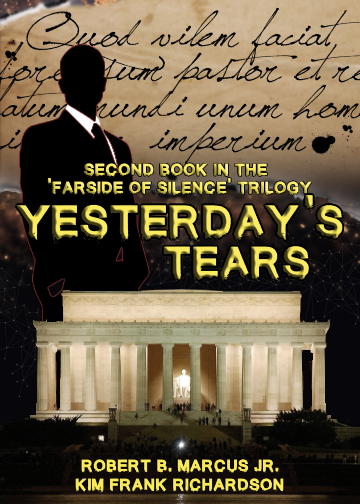
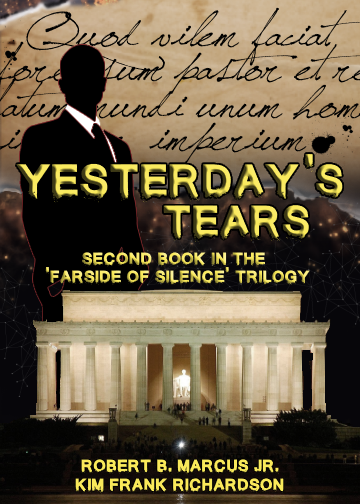
added second book

Changed region(s): [[0.0306, 0.2976, 0.9778, 0.5655]]

diff --git a/src/components/Book2.js b/src/components/Book2.js
@@ -5,20 +5,19 @@ import Typewriter from 'typewriter-effect';
 import Carousel from '@brainhubeu/react-carousel';
 import '@brainhubeu/react-carousel/lib/style.css';
 
-import cover from '../images/cover1.png'
+import cover from '../images/cover2.png'
 import amazon from '../images/amazonBtn.png'
 import barnes from '../images/barnesBtn.png'
-import card1 from '../images/card1.png'
+import card5 from '../images/card5.png'
 import card2 from '../images/card2.png'
-import card3 from '../images/card3.png'
-import card4 from '../images/card4.png'
+
 
 
 import Col from 'react-bootstrap/Col'
 import Row from 'react-bootstrap/Row'
 import Container from 'react-bootstrap/Container'
 
-function Book1() {
+function Book2() {
 
 
     return (
@@ -33,7 +32,7 @@ function Book1() {
         <Col xs={12} md={8}>
         <Typewriter
         onInit={(typewriter) => {
-            typewriter.typeString('<span class="title">THE FAR SIDE OF SILENCE</span>')
+            typewriter.typeString('<span class="title">YESTERDAYS TEARS</span>')
     
             .callFunction(() => {
                 console.log('String typed out!');
@@ -43,25 +42,19 @@ function Book1() {
             }}
     />
         <div class="redline" />
-        {/* <h1>THE FAR SIDE OF SILENCE</h1> */}
         <p>
-        When Air Force One is shot down over the Mediterranean Sea with no survivors ex-Navy Seal Alexander Gray is tasked with an impossible assignment.
+        Alexander Gray returns from Sigonella with a heavy heart. While in Sicily, he lost the love of his life and came close to losing his own. But there's no time to relax as Gray discovers that those who sought to destroy the U.S. in Sicily are now at work on American soil- with even more sinister plans.
         </p>
         <p>
-        The new president secretly orders the U.S. Navy to prepare the Sigonella Naval Air Station on Sicily for a clandestine and experimental operation to save the life of the Russian president, the man most Americans believe responsible for the downing of Air Force One.
+        While investigating the diabolical plot, he finds himself up against a scheme over 2000 years in the making and discovers all is not what it seems. With the help of his friends and fellow agents, he sets out to stop the enemy and uncover the truth that will change his life forever.
         </p>
         <p>
-        Antagonistic forces within the U.S. and Russian governments are determined to prevent that operation from taking place. From the U.S. to Sigonella, Gray must evade and outwit those working against the president.
-        </p>
-        <p>
-        Will Gray survive to bring the traitors to justice and execute the daring operation?
+        Who is The Shepard? Who are the Cotorie and what do they want? Is Allison really dead?
         </p>
 
         <Carousel plugins={['arrows']}>
-        <img class="card" src={card1} />
-        <img class="card" src={card2} />
-        <img class="card" src={card3} />
-        <img class="card" src={card4} />
+        <img class="card" src={card5} />
+        {/* <img class="card" src={card2} /> */}
         </Carousel>
         </Col>
             </Row>
@@ -72,14 +65,14 @@ function Book1() {
             <Row>
         <Col xs={12} md={6}>
             <div class="buyBtns">
-            <a target="_blank" href="https://www.amazon.com/Far-Side-Silence-Robert-Marcus/dp/0988954257/">
+            <a target="_blank" href="https://www.amazon.com/Yesterdays-Tears-Robert-B-Marcus/dp/1635358418/">
             <img src={amazon} class="resizeBtns" alt='Barnes and Noble Button' />
             </a>
             </div>
         </Col>
         <Col xs={12} md={6}>
         <div class="buyBtns">
-            <a target="_blank" href="https://www.barnesandnoble.com/w/the-far-side-of-silence-robert-b-marcus/1116050368" >
+            <a target="_blank" href="https://www.barnesandnoble.com/w/yesterdays-tears-robert-b-marcus/1126065391" >
             <img src={barnes} class="resizeBtns" alt='Barnes and Noble Button' />
             </a>
             </div>
@@ -92,4 +85,4 @@ function Book1() {
     )
 }
 
-export default Book1
+export default Book2

diff --git a/src/App.js b/src/App.js
@@ -3,6 +3,7 @@ import 'bootstrap/dist/css/bootstrap.min.css';
 import Typewriter from 'typewriter-effect';
 
 import FirstBook from './components/Book1.js'
+import SecondBook from './components/Book2.js'
 import Title from './components/Title';
 
 function App() {
@@ -10,24 +11,11 @@ function App() {
   return (
     
   <div>
-
-
-    {/* <div class="margin">
-    <Typewriter
-        onInit={(typewriter) => {
-            typewriter.typeString('<span id="title" style="color: #ffffff;">Alexander Grey</span>')
-    
-            .callFunction(() => {
-                console.log('String typed out!');
-            })
-            .pauseFor(2500)
-            .start();
-            }}
-    />
-    </div> */}
   {/* <Title /> */}
   <FirstBook />
+  <SecondBook />
   </div>
+  
   );
 }
 
